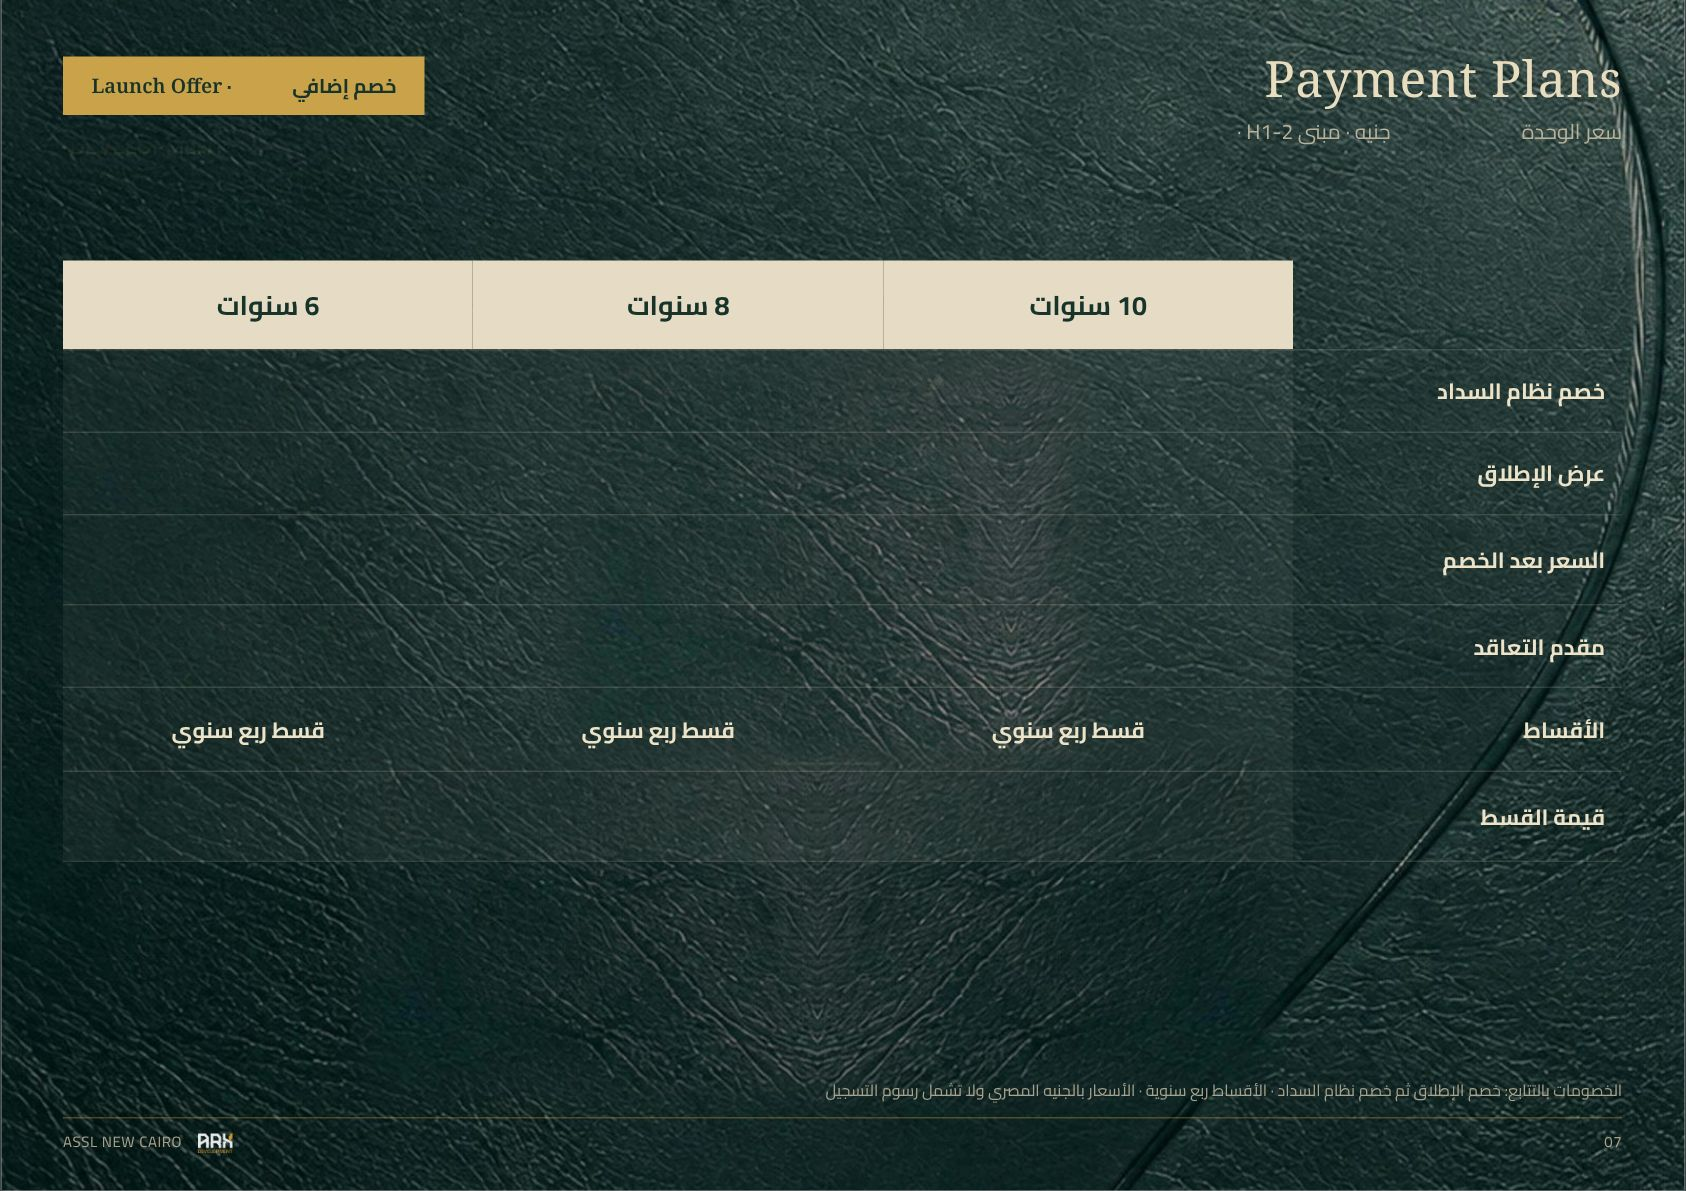
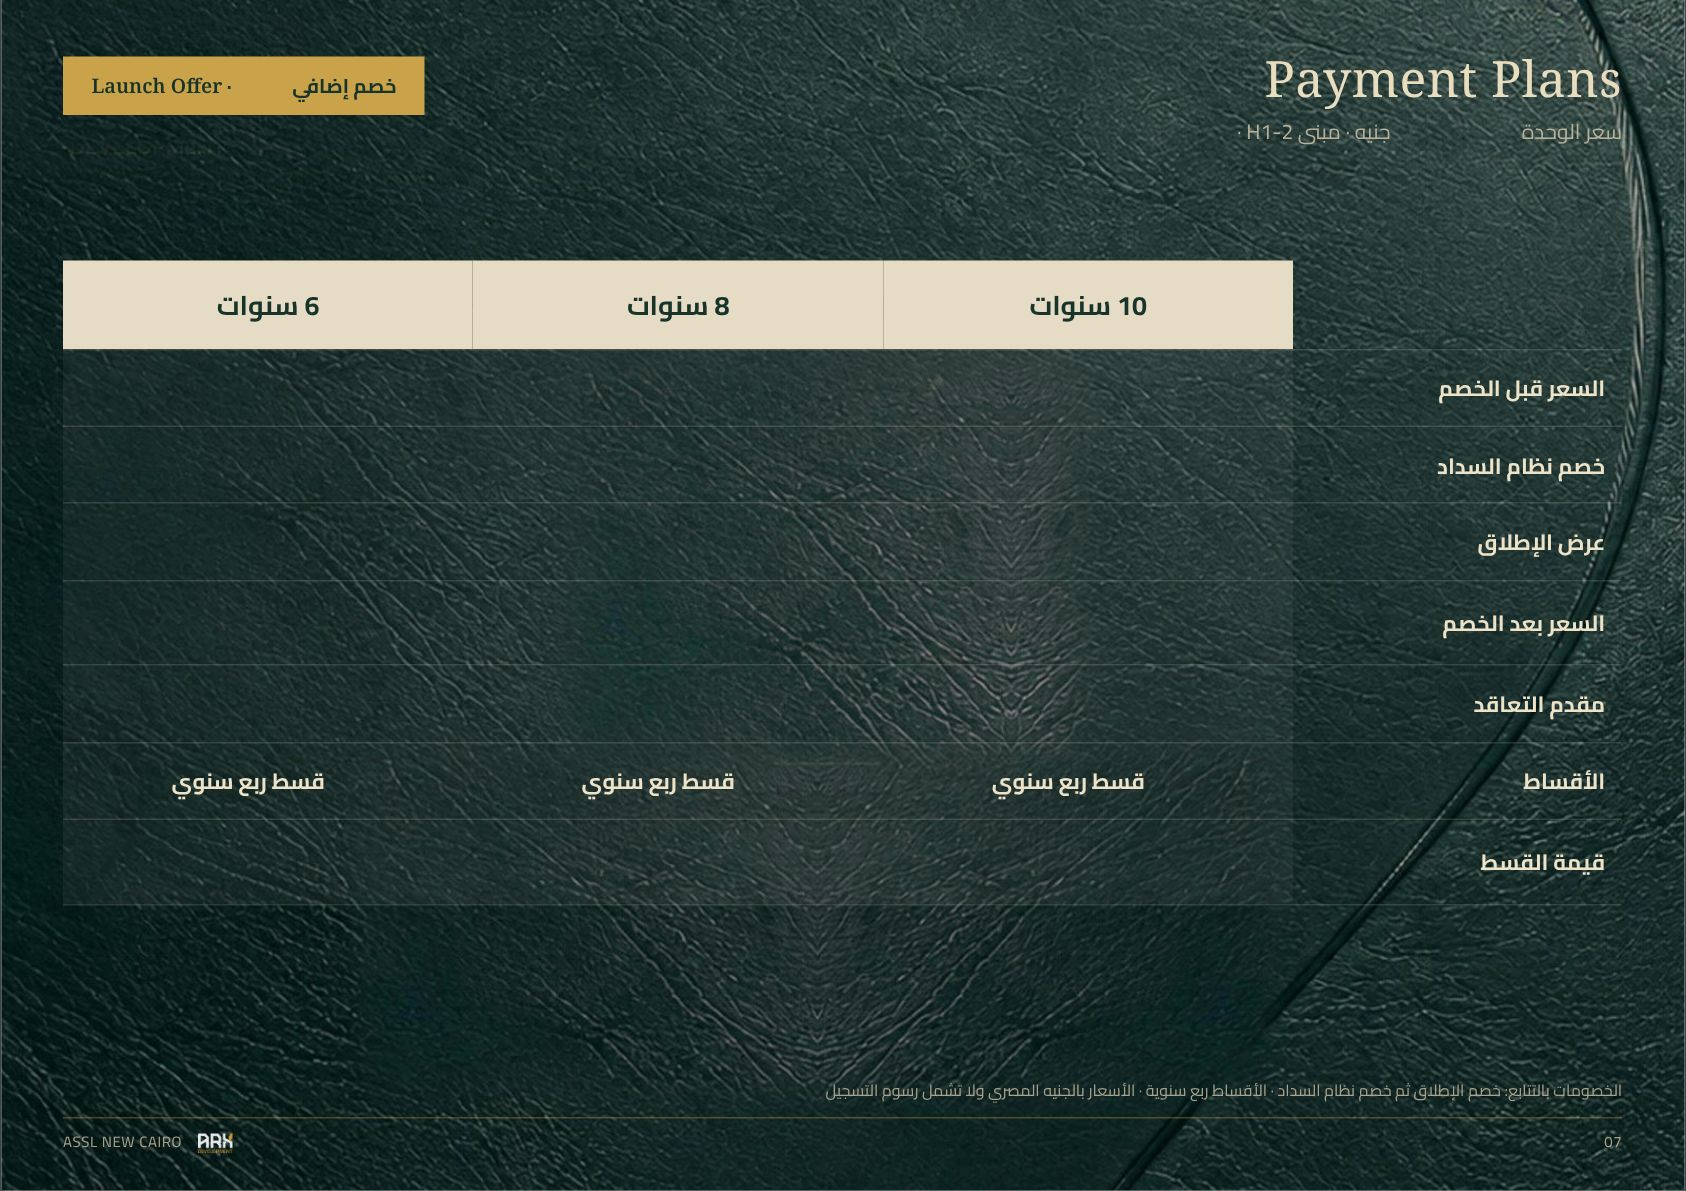
Payment page: original price row and bold down payment
Claude-Session: https://claude.ai/code/session_01D7xEH891DwhXR7T5BSWwGE

diff --git a/index.html b/index.html
@@ -96,7 +96,7 @@ input[readonly]{background:#f9f8f6;color:var(--text-2);cursor:default;}
   .ph-header,.ph-table th,.ph-sub th,.ph-even td,.ph-tot td,.ph-yc{-webkit-print-color-adjust:exact;print-color-adjust:exact;}
 }
 </style>
-<link rel="stylesheet" href="offer/offer.css?v=20261106f">
+<link rel="stylesheet" href="offer/offer.css?v=20261107a">
 <script>
 // ARX logo data URIs (injected at build time)
[1 lines of base64/hex data omitted]
@@ -716,7 +716,7 @@ function exportExcel() {
 // ── INIT ──
 loadSheet().then(() => window.__offer && window.__offer.refreshOffer());
 </script>
-<script src="offer/units.js?v=20261106e"></script>
-<script src="offer/offer.js?v=20261106f"></script>
+<script src="offer/units.js?v=20261107a"></script>
+<script src="offer/offer.js?v=20261107a"></script>
 </body>
 </html>

diff --git a/offer/offer.js b/offer/offer.js
@@ -4,7 +4,7 @@
 (function () {
   const U = window.ASSL_UNITS;
   const IMG = 'offer/img/';
-  const OFFER_VER = '20261106e';
+  const OFFER_VER = '20261107a';
   const $ = id => document.getElementById(id);
   const val = id => ($(id) ? $(id).value.trim() : '');
   const FLOORS = [
@@ -277,10 +277,11 @@
       <table class="pp">
         <thead><tr><th></th>${P.map(p => `<th>${p.years} سنوات</th>`).join('')}</tr></thead>
         <tbody>
+          ${row('السعر قبل الخصم', (p, i) => D('orig' + i, egp(o.price), 6.4), 'orig')}
           ${row('خصم نظام السداد', (p, i) => D('dis' + i, p.r.dis > 0 ? p.r.dis + '%' : '—', 3.4))}
           ${row('عرض الإطلاق', (p, i) => D('lau' + i, p.r.launch > 0 ? pct(p.r.launch) : '—', 3.4))}
           ${row('السعر بعد الخصم', (p, i) => D('sell' + i, egp(p.selling), 6.4), 'hl')}
-          ${row('مقدم التعاقد', (p, i) => `${D('dpp' + i, pct(p.r.dp1 + p.r.dp2), 2.8)} <small>${D('dpa' + i, egp(p.dp), 6.2)}</small>`)}
+          ${row('مقدم التعاقد', (p, i) => `${D('dpp' + i, pct(p.r.dp1 + p.r.dp2), 2.8)} <small>${D('dpa' + i, egp(p.dp), 6.2)}</small>`, 'dp')}
           ${row('الأقساط', (p, i) => `${D('insn' + i, p.ins.length, 1.6)} قسط ربع سنوي`)}
           ${row('قيمة القسط', (p, i) => D('insa' + i, egp(p.ins[0] ? p.ins[0].amt : 0), 6.4), 'hl')}
         </tbody>
@@ -449,7 +450,7 @@
     v.lb = pc(Math.max(...P.map(p => p.r.launch || 0)));
     P.forEach((p, i) => {
       v['dis' + i] = p.r.dis > 0 ? p.r.dis + '%' : '—'; v['lau' + i] = p.r.launch > 0 ? pc(p.r.launch) : '—';
-      v['sell' + i] = egp(p.selling); v['dpp' + i] = pc(p.r.dp1 + p.r.dp2); v['dpa' + i] = egp(p.dp);
+      v['orig' + i] = egp(o.price); v['sell' + i] = egp(p.selling); v['dpp' + i] = pc(p.r.dp1 + p.r.dp2); v['dpa' + i] = egp(p.dp);
       v['insn' + i] = String(p.ins.length); v['insa' + i] = egp(p.ins[0] ? p.ins[0].amt : 0);
     });
     return v;

diff --git a/offer/offer.css b/offer/offer.css
@@ -128,12 +128,15 @@
 .pp-badge{position:absolute;top:10mm;left:11mm;background:#C9A24A;color:#17332A;font-size:10pt;font-weight:700;padding:1.8mm 5mm;direction:rtl;}
 .pp-badge b{font-family:'Noto Serif',Georgia,serif;}
 .pp{position:absolute;top:46mm;left:11mm;width:275mm;border-collapse:collapse;direction:rtl;color:#EDE3C8;}
-.pp th,.pp td{padding:3.6mm 3mm;border-bottom:.6px solid rgba(237,227,200,.16);font-size:11pt;text-align:center;}
+.pp th,.pp td{padding:3.1mm 3mm;border-bottom:.6px solid rgba(237,227,200,.16);font-size:11pt;text-align:center;}
 .pp tbody th{text-align:right;font-weight:700;width:58mm;}
 .pp thead th{font-size:13.5pt;font-weight:700;padding:3.4mm;}
 .pp thead th:not(:first-child){background:#E6DCC6;color:#17332A;}
 .pp tbody td{background:rgba(237,227,200,.06);font-weight:700;}
 .pp small{font-size:8.5pt;color:#b9b29a;font-weight:600;margin-right:1.5mm;}
+.pp tr.orig td{font-weight:700;}
+.pp tr.dp td,.pp tr.dp small{font-weight:700;color:#EDE3C8;}
+.pp tr.dp small{font-size:11pt;}
 .pp tr.hl td{color:#E3C77E;font-size:12.5pt;}
 .pp-note{position:absolute;left:11mm;right:11mm;bottom:15mm;direction:rtl;font-size:8pt;color:#a9a38d;}
 
